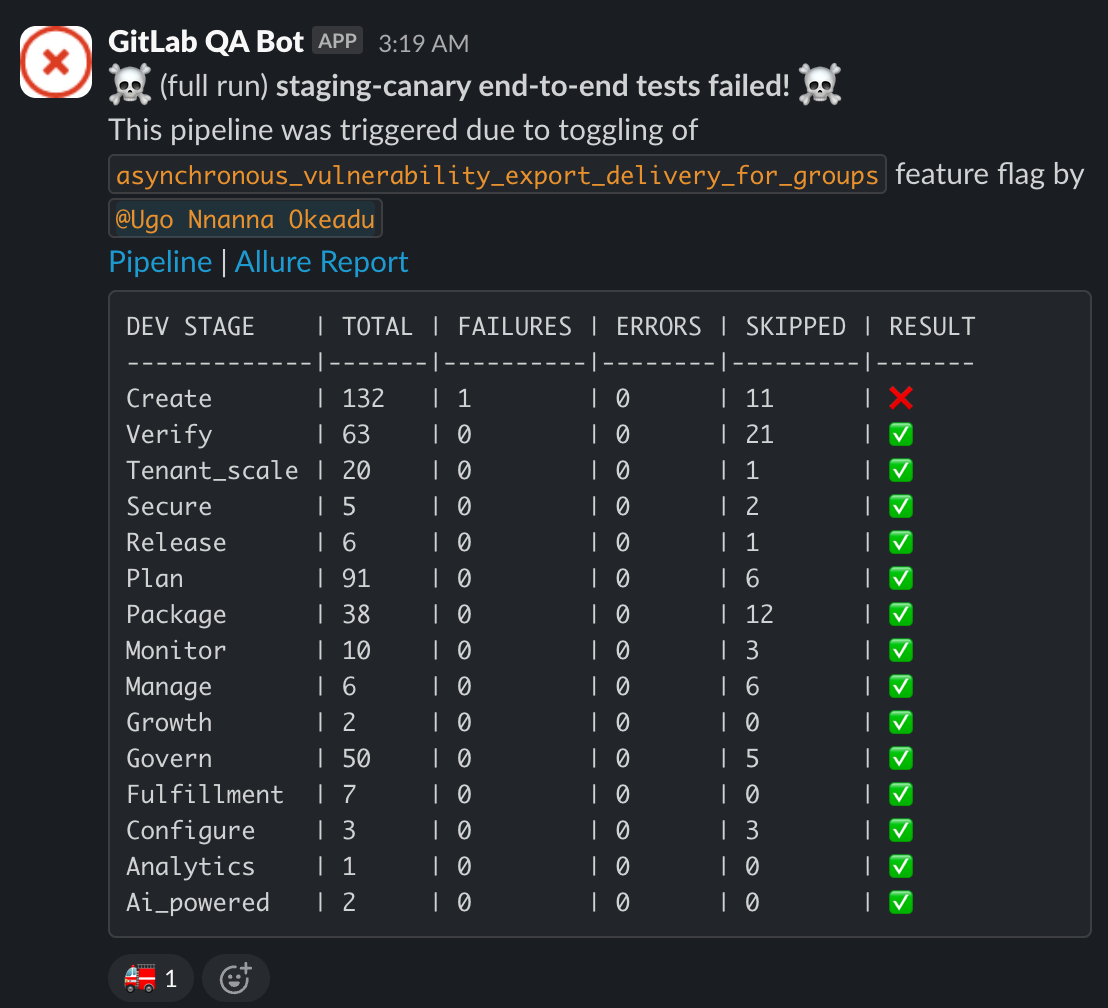
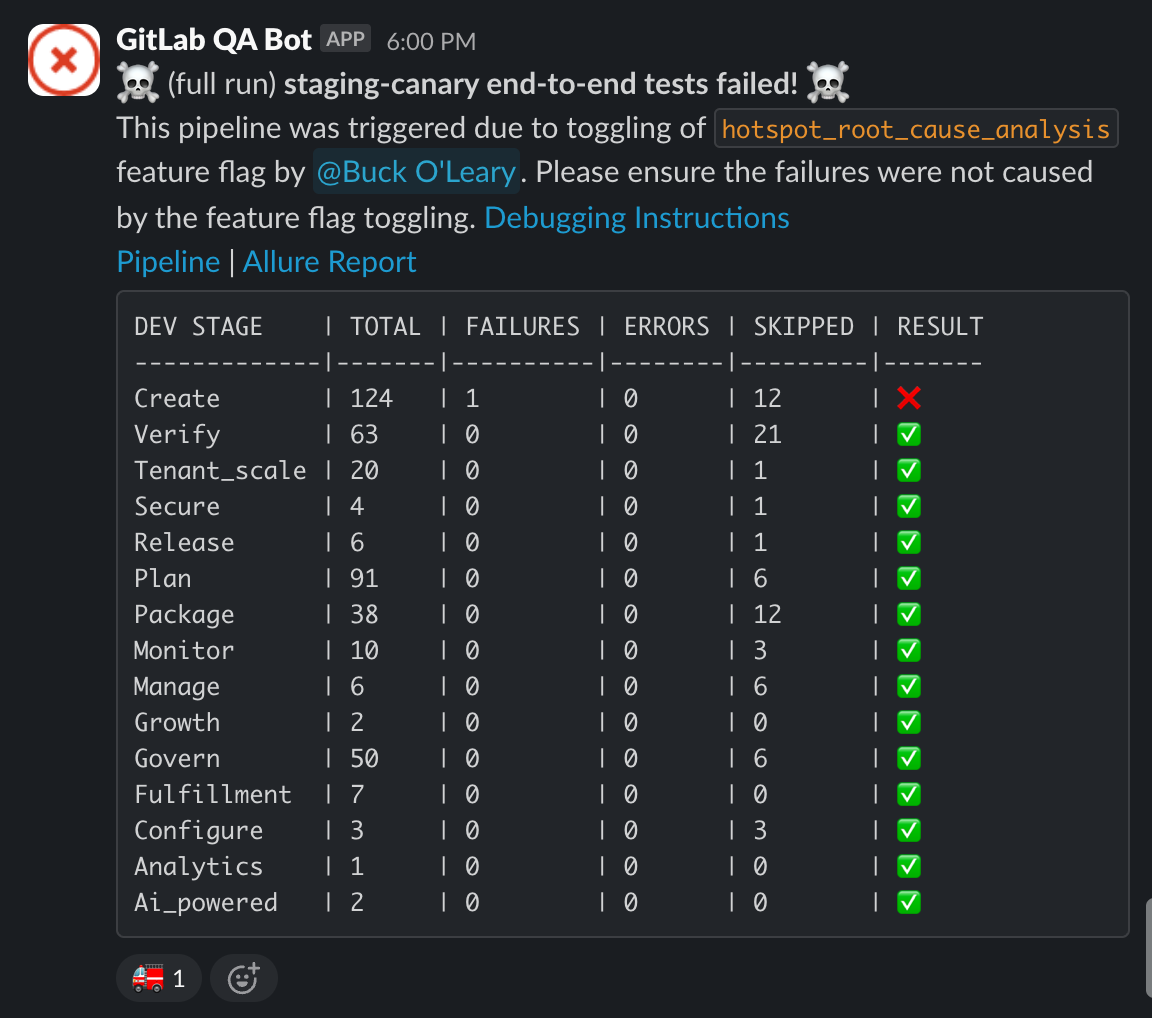
Update feature flag e2e docs to mention debugging link

Changed region(s): [[0.0, 0.0, 0.9819, 0.9841], [0.9819, 0.8611, 1.0, 0.9841]]

diff --git a/doc/development/testing_guide/end_to_end/feature_flag_testing.md b/doc/development/testing_guide/end_to_end/feature_flag_testing.md
@@ -53,7 +53,7 @@ If a feature flag value is changed on staging or production through a ChatOps co
 
 ![GitLab Chatops Slack message example](img/gitlab-chatops-message_v18_0.png)
 
-Once the pipeline completes, a followup message with the results is sent to the same Slack channel.
+Once the pipeline completes, a followup message with the results is sent to the same Slack channel. If the pipeline failed, it includes a link to the debugging instructions below.
 
 ![Failed pipeline Slack message example](img/failed-pipeline-message_v18_0.png)
 
